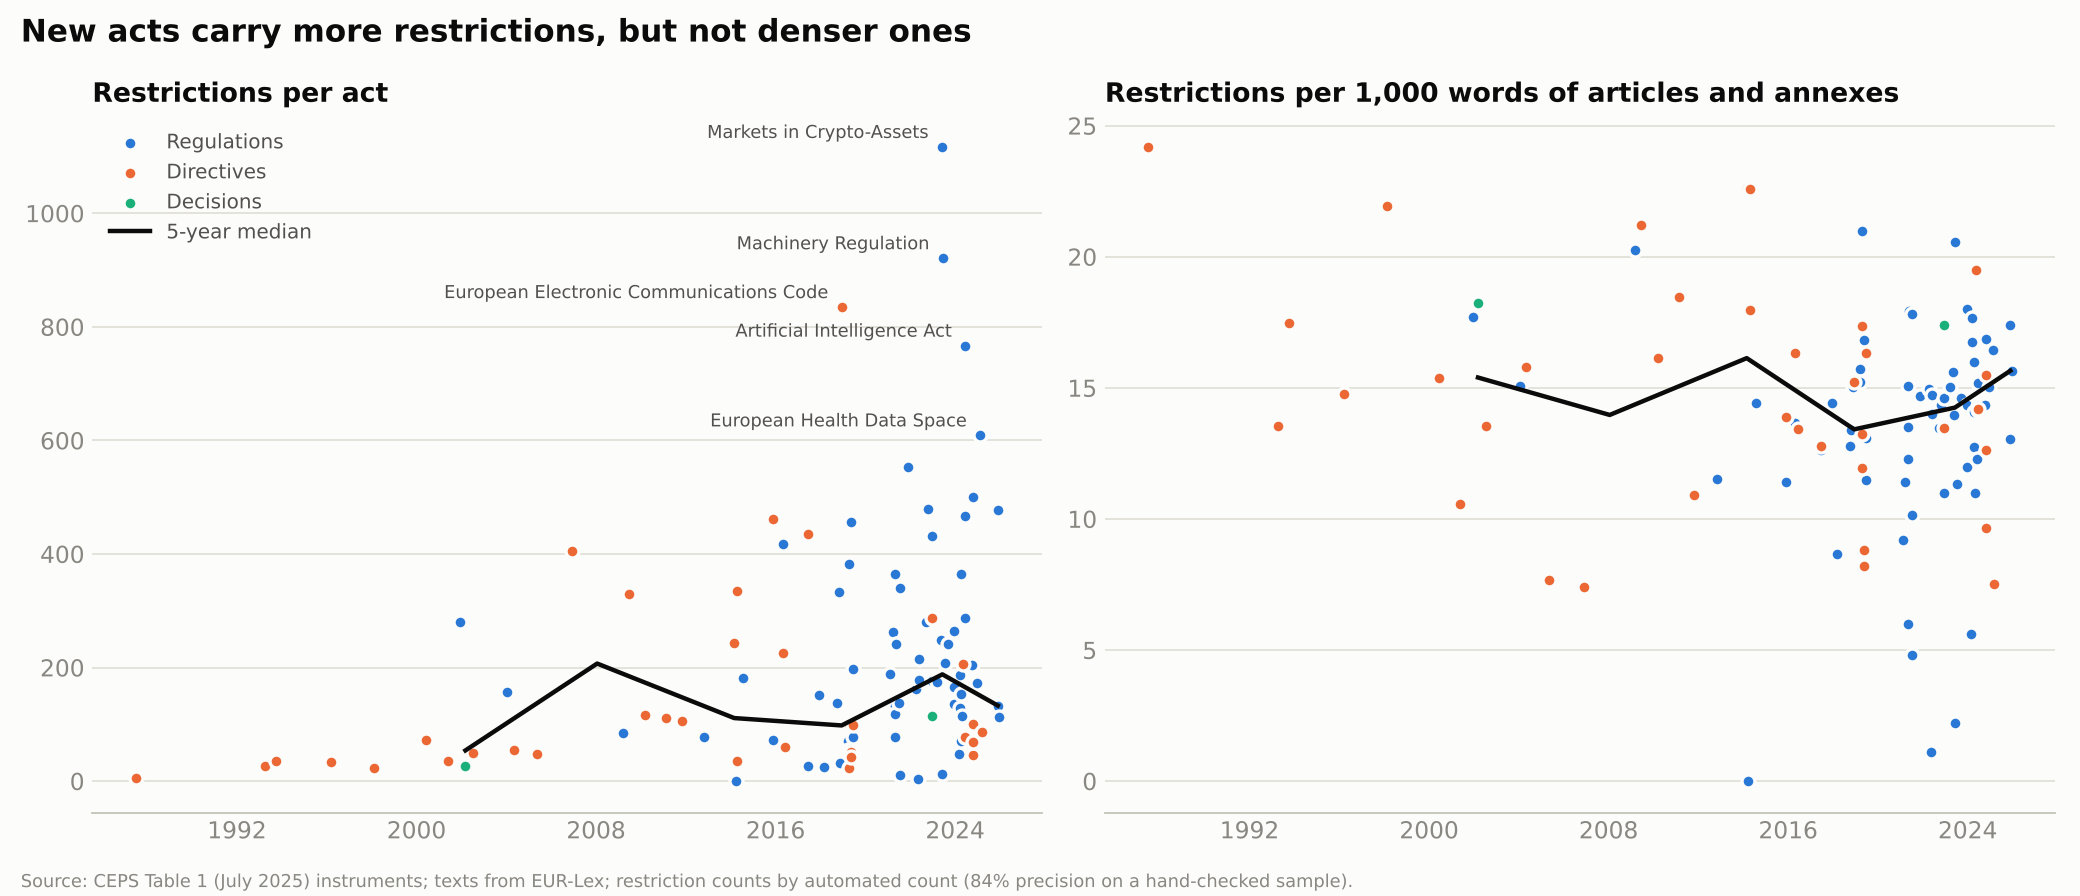
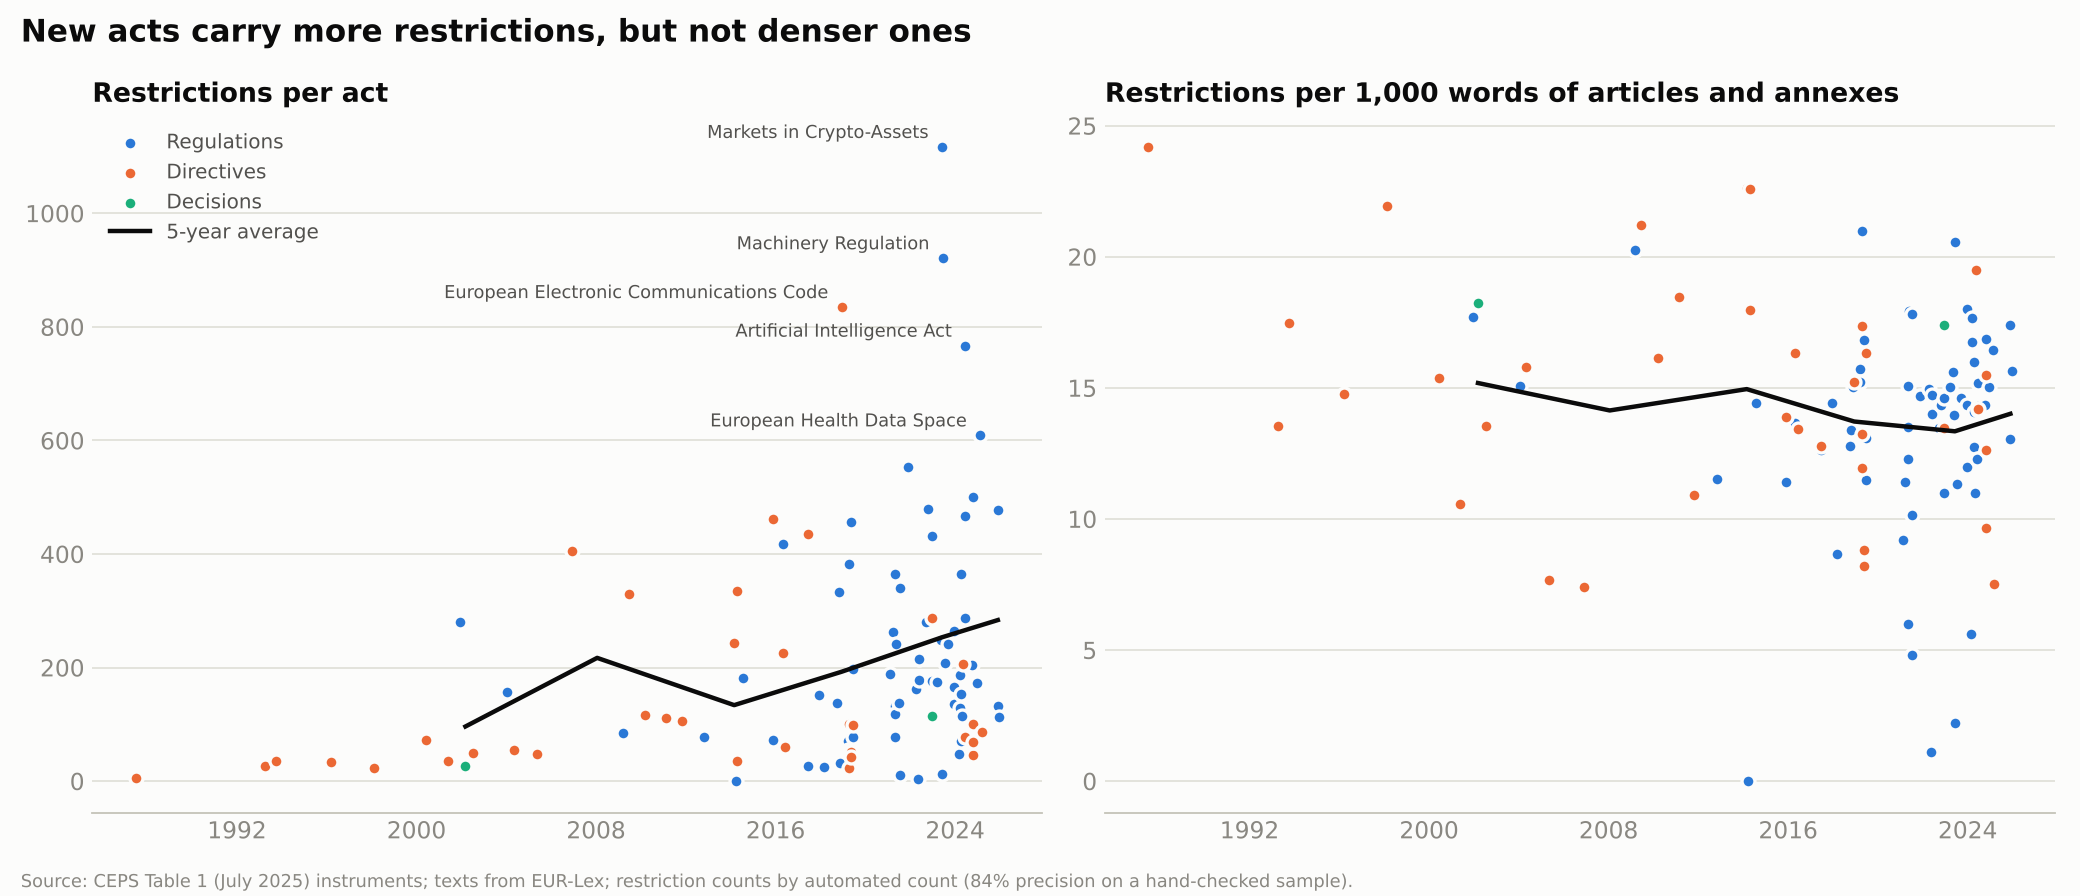
Use 5-year average instead of median in per-act chart
Claude-Session: https://claude.ai/code/session_015jJNgYEity1n7oPe2my2VN

diff --git a/research/ceps_metrics/scripts/charts.py b/research/ceps_metrics/scripts/charts.py
@@ -139,7 +139,7 @@ for ax, key, title, f in ((axes[0], "restrictions_total", "Restrictions per act"
         bins[(r["date"].year // 5) * 5].append(r)
     xs = sorted(b for b in bins if len(bins[b]) >= 3)
     mid = lambda rs: dt.date.fromordinal(int(statistics.median(x["date"].toordinal() for x in rs)))
-    ax.plot([mid(bins[b]) for b in xs], [statistics.median(f(x) for x in bins[b]) for b in xs], color=INK, lw=2, label="5-year median", zorder=4)
+    ax.plot([mid(bins[b]) for b in xs], [statistics.mean(f(x) for x in bins[b]) for b in xs], color=INK, lw=2, label="5-year average", zorder=4)
     ax.set_title(title, loc="left", fontsize=12, color=INK, weight="bold")
     ax.yaxis.grid(True, color=GRID, lw=0.8); ax.set_axisbelow(True)
     for s in ("top", "right", "left"):
